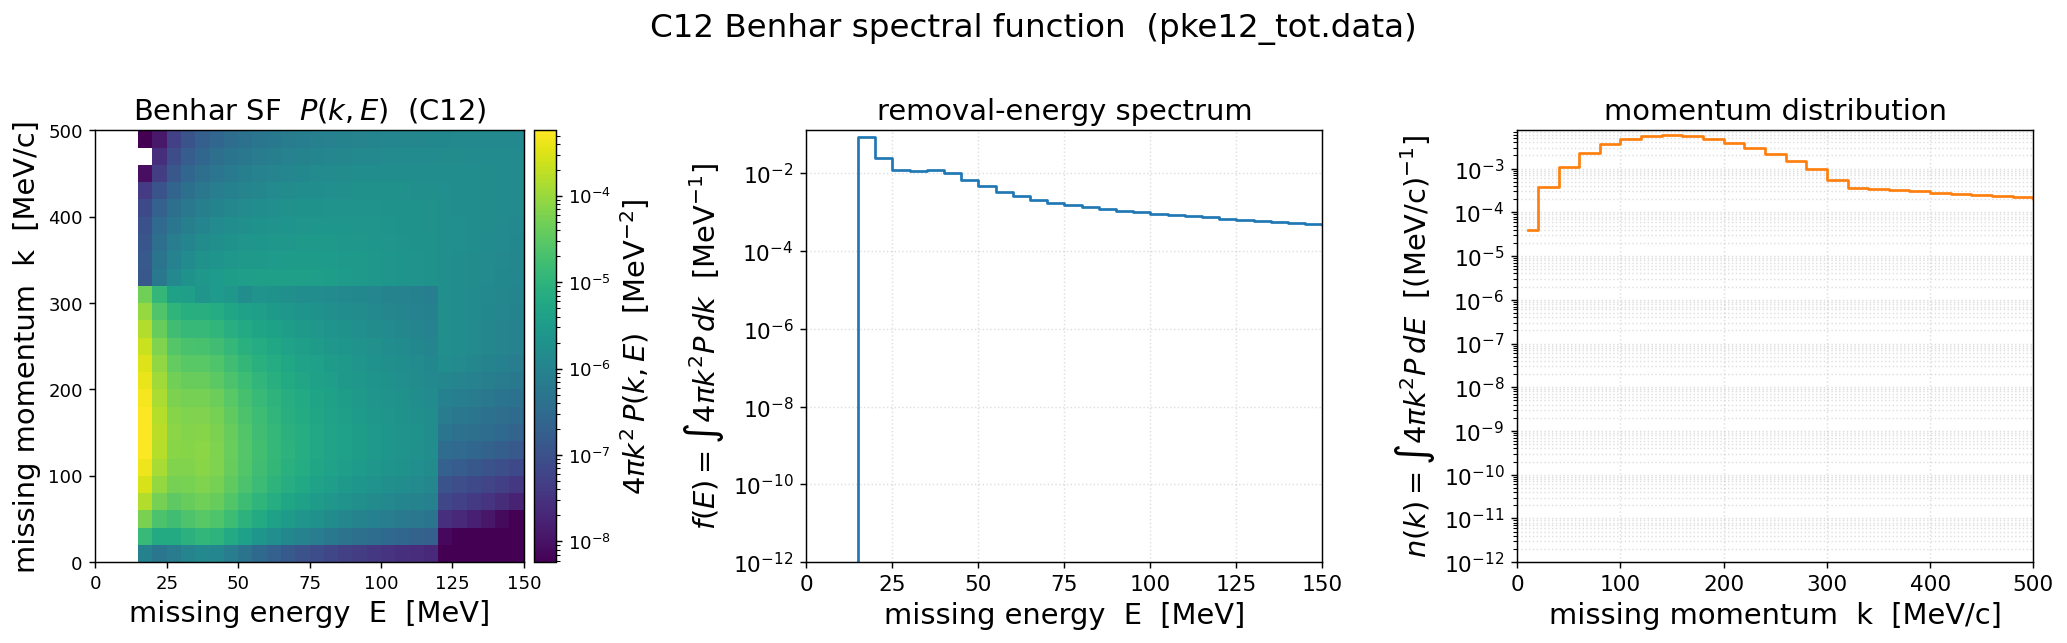
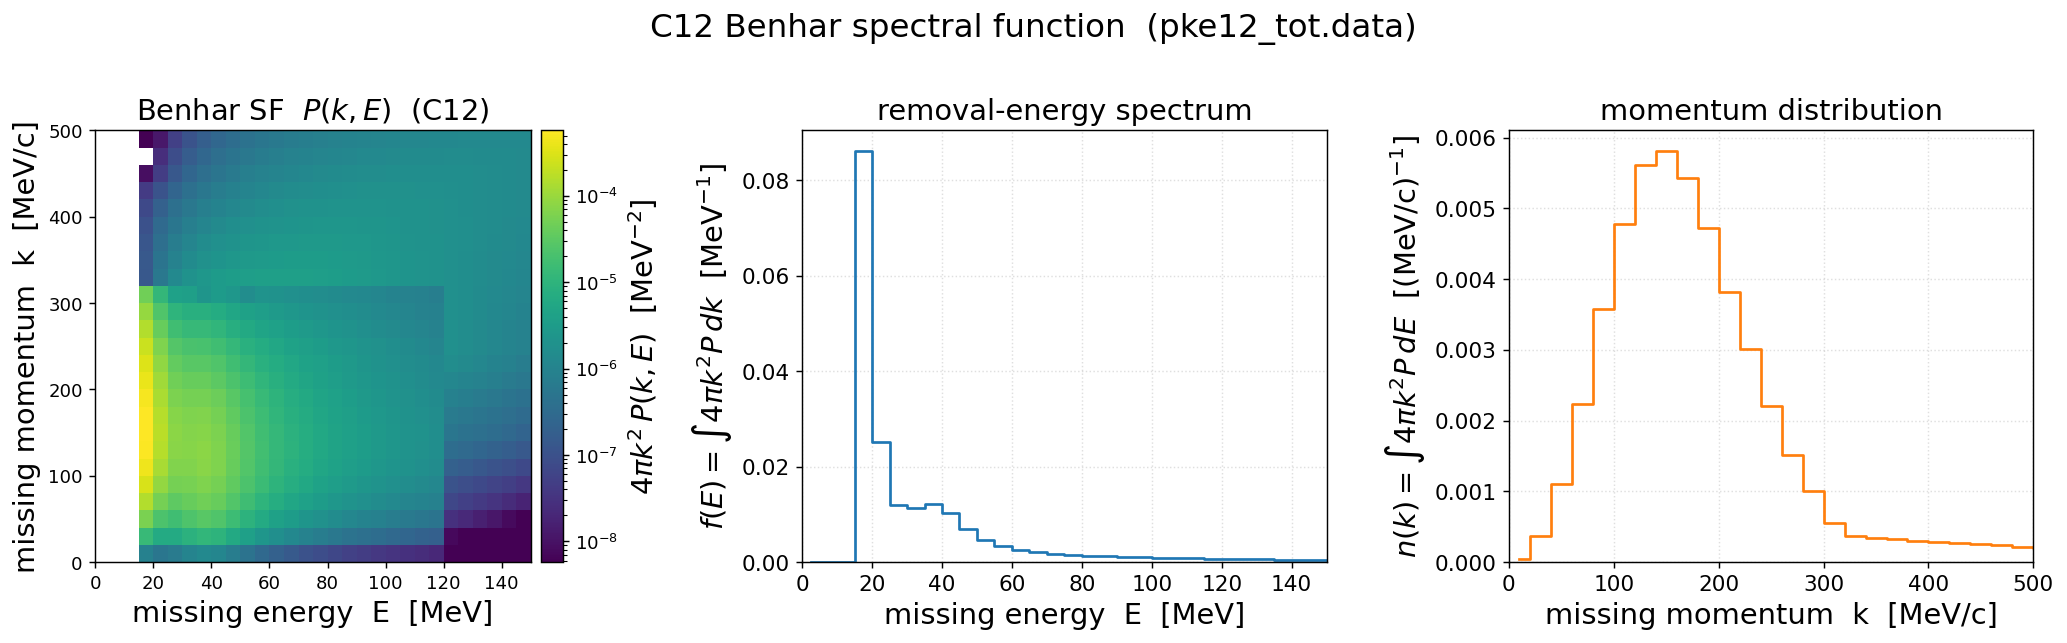
results: linear y-axis on spectral-function marginals
f(E) and n(k) panels now use a normal (linear) y-axis instead of log, so
the p-shell spike at 17.5 MeV and the n(k) peak at ~150 MeV/c read
directly. 2D map keeps its log color scale.

diff --git a/results/prd-analyzer/plot_spectral_function.py b/results/prd-analyzer/plot_spectral_function.py
@@ -123,16 +123,18 @@ def main():
     style_axis(axE, title="removal-energy spectrum",
                xlabel="missing energy  E  [MeV]",
                ylabel=r"$f(E)=\int 4\pi k^2 P\,dk$  [MeV$^{-1}$]",
-               logx=False, logy=True)
+               logx=False, logy=False)
     axE.set_xlim(0, Emax_plot)
+    axE.set_ylim(0, None)
 
     # momentum marginal
     axk.step(k, n_k, where="mid", color="C1")
     style_axis(axk, title="momentum distribution",
                xlabel="missing momentum  k  [MeV/c]",
                ylabel=r"$n(k)=\int 4\pi k^2 P\,dE$  [(MeV/c)$^{-1}$]",
-               logx=False, logy=True)
+               logx=False, logy=False)
     axk.set_xlim(0, kmax_plot)
+    axk.set_ylim(0, None)
 
     fig.suptitle("C12 Benhar spectral function  (pke12_tot.data)", fontsize=FS_SUPTITLE)
     fig.tight_layout(rect=(0, 0, 1, 0.96))
